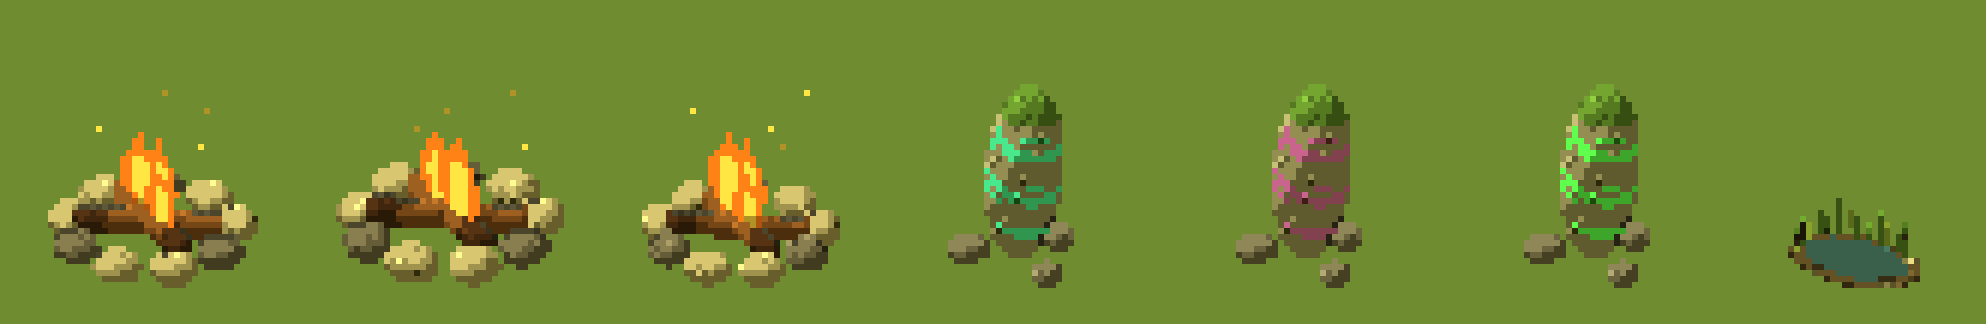
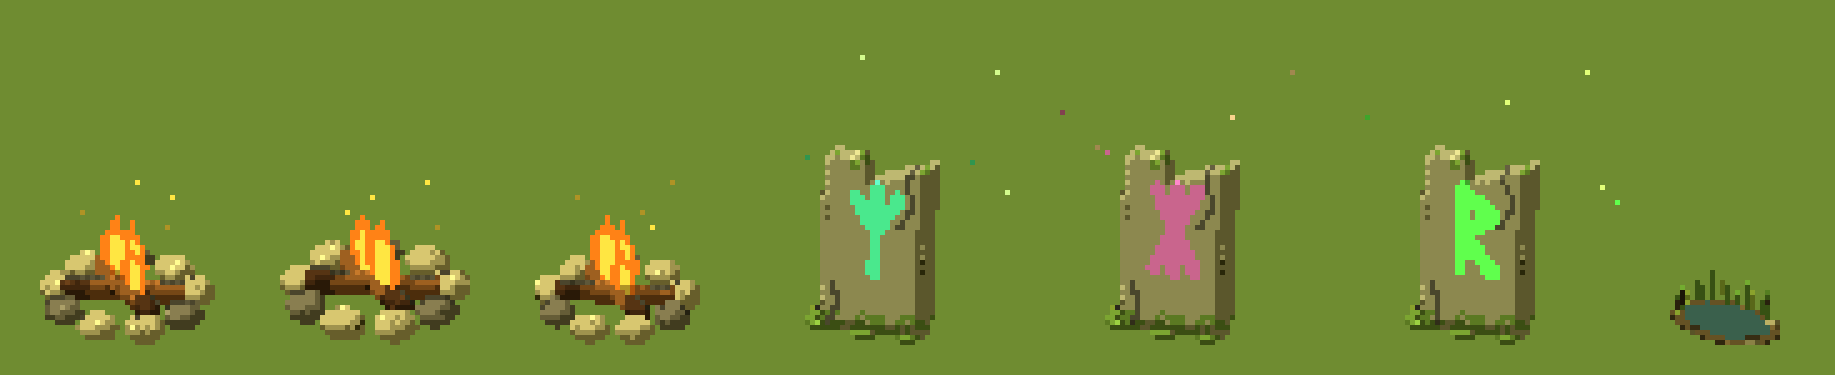
Art pass: magic stones as rune slabs; one rune language
The magic stones become grey standing slabs with cracks, a worn top,
moss and grass at the foot, one bold glowing rune and motes. The rune
glyphs move to core.js and the soundsystem carves the same glyphs, big,
on the sides of its stack.

Claude-Session: https://claude.ai/code/session_01FVGKHvaavDn5xGsWtRTBaz

diff --git a/tools/art-lab/dist/witch-art-lab.html b/tools/art-lab/dist/witch-art-lab.html
@@ -222,6 +222,22 @@ const M = {
   WOOD: 41,    // varnished wooden trim
 };
 // These glow: drawn at full colour by the lighting pass, whatever the light.
+// The rune glyphs: one carved-rune language for the magic stones and the soundsystem. Simple,
+// angular, bold strokes. u, v in [0, 1] over the glyph's square (v down); k picks the glyph;
+// w is the stroke's half-width.
+const RUNE_GLYPHS = 4;
+function runeGlyph(u, v, k, w = .12) {
+  const line = (x0, y0, x1, y1) => { // distance to a segment
+    const dx = x1 - x0, dy = y1 - y0, t = Math.max(0, Math.min(1, ((u - x0) * dx + (v - y0) * dy) / (dx * dx + dy * dy)));
+    return Math.hypot(u - x0 - dx * t, v - y0 - dy * t) < w;
+  };
+  switch (((k % RUNE_GLYPHS) + RUNE_GLYPHS) % RUNE_GLYPHS) {
+    case 0: return line(.5, .08, .5, .92) || line(.5, .1, .18, .4) || line(.5, .1, .82, .4);  // an arrow up
+    case 1: return line(.5, .08, .5, .92) || line(.5, .5, .18, .18) || line(.5, .5, .82, .18); // a fork
+    case 2: return line(.2, .1, .8, .9) || line(.8, .1, .2, .9) || line(.5, .08, .5, .92);    // a starred cross
+    default: return line(.3, .08, .3, .92) || line(.3, .12, .75, .35) || line(.75, .35, .3, .55) || line(.3, .55, .78, .92); // a hooked stave
+  }
+}
 const EMISSIVE = new Set([M.GLINT, M.FLOWER, M.MAGIC, M.MAGIC2, M.RUNE, M.GLOW]);
 
 // ================= geometry: smooth outlines =================
@@ -1368,16 +1384,44 @@ function campfire(frame) {
   return sp;
 }
 const STONE_GLOW = { cyan: [[70, 230, 255], [200, 250, 255]], violet: [[190, 100, 255], [235, 210, 255]], green: [[90, 255, 140], [215, 255, 220]] };
+// A rune stone: a grey standing slab, taller than wide, its flatter face turned to the viewer,
+// cracked and weathered, with moss and grass at its foot and one bold glowing rune carved into
+// its face (the same glyphs as the soundsystem's runes), and a few motes drifting round it.
 function magicStone(variant) {
-  const m = new Model({ blend: .05 });
-  // a standing stone, leaning a little, with carved runes on its face; small stones at its foot
-  m.ell([0, .42, 0], [.42, .17, .13], M.ACCENT, { dir: [.12, 1, 0], up: [1, 0, 0], group: 1, paint: p => {
-    const face = p[0] > .03 || p[2] > .07, band = Math.floor((p[1] - .1) * 9);
-    if (face && p[1] > .15 && p[1] < .75 && (band % 2 === 0) && Math.abs(Math.sin(p[1] * 31 + p[2] * 17 + p[0] * 13)) > .55) return M.MAGIC;
-    return p[1] > .7 ? M.LEAF : undefined; } });
-  for (const [x, z, r] of [[-.2, .12, .08], [.18, .1, .06], [.05, -.18, .07]]) m.ell([x, r * .6, z], [r, r * .7, r], M.BODY2, { group: 2 });
-  const col = { [M.ACCENT]: [140, 140, 150], [M.BODY2]: [100, 98, 110], [M.LEAF]: [80, 120, 60], [M.MAGIC]: STONE_GLOW[variant][0], [M.MAGIC2]: STONE_GLOW[variant][1] };
-  const sp = render(m, { height: 36 }).sp;
+  const m = new Model({ blend: .04 }), k = Object.keys(STONE_GLOW).indexOf(variant), fz = .08, A = .4; // A: turned so its face is nearly square to the viewer
+  // its own axes: across, up (leaning back a little, so the face catches the moon), out of the face
+  const ax = [Math.cos(A), 0, -Math.sin(A)], az = v3.norm([Math.sin(A), .22, Math.cos(A)]), ay = v3.norm(v3.cross(az, ax)), C = [0, .46, 0];
+  // two jagged cracks: one down from the worn top, one up from the foot
+  const cracks = [[[.2 - k * .05, .92], [.14, .8], [.19, .7], [.12, .58]], [[-.22 + k * .03, .05], [-.17, .16], [-.21, .25]]];
+  const crack = (x, y) => cracks.some(c => c.some((a, i) => { const b = c[i + 1]; if (!b) return false;
+    const dx = b[0] - a[0], dy = b[1] - a[1], t = Math.max(0, Math.min(1, ((x - a[0]) * dx + (y - a[1]) * dy) / (dx * dx + dy * dy)));
+    return Math.hypot(x - a[0] - dx * t, y - a[1] - dy * t) < .014; }));
+  const face = q => {
+    const d = v3.sub(q, C), p = [v3.dot(d, ax), v3.dot(d, ay) + .46, v3.dot(d, az)]; // in the slab's own axes
+    if (p[2] > fz - .02) { // the rune, carved into the face
+      const u = (p[0] + .17) / .34, v = (.8 - p[1]) / .5;
+      if (u >= 0 && u <= 1 && v >= 0 && v <= 1 && runeGlyph(u, v, k + 1, .1)) return M.RUNE;
+    }
+    if (crack(p[0], p[1])) return M.STONED; // cracks
+    if (p[1] > .86 && hash2(Math.floor(p[0] * 30), Math.floor(p[2] * 30), 3) < .3) return M.MOSS;   // lichen on the weathered top
+    if (p[1] < .12 && hash2(Math.floor(p[0] * 35), Math.floor(p[1] * 35) + Math.floor(p[2] * 35) * 7, 5) < .55) return M.MOSS;
+    return undefined;
+  };
+  m.box(C, [.28, .46, fz], M.STONE, { group: 1, axes: [ax, ay, az], round: .06, paint: face });
+  // the weathered top: worn down to one side
+  m.box(v3.add(v3.add(C, v3.mul(ay, .53)), v3.mul(ax, .2)), [.3, .12, .2], M.STONE, { group: 1, dir: v3.add(ax, v3.mul(ay, .35)), up: ay, cut: true, paint: face });
+  // moss and grass at its foot
+  for (const [x, z, r] of [[-.24, .14, .08], [.2, .02, .07], [.0, .12, .07]]) m.ell([x, .015, z], [r, r * .4, r], M.MOSS, { group: 2 });
+  for (let i = 0; i < 9; i++) { const x = -.3 + i * .07, z = .12 + (i % 3) * .025 - i * .02, h = .07 + (i * 37 % 5) / 60; m.seg([x, 0, z], [x + (i % 3 - 1) * .02, h, z + .01], .012, .004, i % 3 ? M.LEAF : M.LEAF2, { group: 10 + i }); }
+  const col = { [M.STONE]: [132, 134, 142], [M.STONED]: [70, 70, 80], [M.MOSS]: [86, 120, 62], [M.LEAF]: [80, 125, 60], [M.LEAF2]: [130, 160, 80], [M.RUNE]: STONE_GLOW[variant][0], [M.MAGIC2]: STONE_GLOW[variant][1], [M.LINE]: [40, 40, 50] };
+  const sp = render(m, { height: 44 }).sp;
+  // a few motes drifting round it
+  let n = 0;
+  for (let i = 0; i < 600 && n < 5; i++) {
+    const x = Math.floor(hash2(i, k, 9) * sp.w), y = Math.floor(hash2(i, k, 10) * sp.h * .8);
+    if (sp.get(x, y) || sp.get(x + 1, y) || sp.get(x - 1, y) || sp.get(x, y + 1) || sp.get(x, y - 1)) continue;
+    sp.px(x, y, n % 2 ? M.RUNE : M.MAGIC2); n++;
+  }
   return { sp, colours: col };
 }
 function pond() {
@@ -1888,15 +1932,6 @@ function soundsystemColours(variant = 0) {
   return { [M.STONE]: [78, 80, 94], [M.STONED]: [36, 36, 48], [M.MOSS]: [72, 108, 58], [M.CRYSTAL]: crystal, [M.RUNE]: glow, [M.GLOW]: glow, [M.MAGIC2]: core, [M.WOOD]: [150, 96, 52], [M.LINE]: [24, 24, 34] };
 }
 
-// a carved rune, u and v in [0, 1] over its square
-const rune = (u, v, k) => {
-  const stroke = (d, w = .13) => Math.abs(d) < w;
-  if (stroke(u - .5) && v > .08 && v < .92) return true;               // the stem
-  if (k % 3 === 0) return stroke(v - .3 - Math.abs(u - .5) * .9) && v < .75; // arrow
-  if (k % 3 === 1) return (stroke(v - u * .9 - .05) || stroke(v - (1 - u) * .9 - .05)) && v < .8; // cross
-  return stroke(Math.hypot(u - .5, v - .3) - .22, .1);                 // ring
-};
-
 // The stack as a model. frame 0..2 pumps the cones; state "playing" | "damaged"; for damaged,
 // frame 0 or 1 is the flicker. Returns the model and how tall the intact stack is (model units).
 function stackModel(variant, frame, state) {
@@ -1918,11 +1953,11 @@ function stackModel(variant, frame, state) {
       return d < .2 + pump * .15 ? M.MAGIC2 : d < .5 ? M.GLOW : d < .78 ? M.CRYSTAL : M.GLOW;
     } });
   };
-  // a carved rune near a block's top corner
-  const runePaint = (bx, by, bh, bw, frontZ, k, base) => p => {
-    if (p[2] > frontZ - .012) {
-      const s = .09, u = (p[0] - (bx - bw + .03)) / s, v = 1 - (p[1] - (by + bh - .03 - s)) / s;
-      if (u >= 0 && u <= 1 && v >= 0 && v <= 1 && rune(u, v, k)) return dmg && hash2(k, frame, 5) < .5 ? M.STONED : M.RUNE;
+  // one big carved rune on the side of a block (the side we see), in the magic stones' glyphs
+  const runePaint = (bx, by, bh, bw, bd, fz, k, base) => p => {
+    if (p[0] > bx + bw - .022) {
+      const S = Math.min(bh, bd) * 1.5, u = (fz - bd - p[2]) / S + .5, v = (by - p[1]) / S + .5;
+      if (u >= 0 && u <= 1 && v >= 0 && v <= 1 && runeGlyph(u, v, k, .12)) return dmg && hash2(k, frame, 5) < .5 ? M.STONED : M.RUNE;
     }
     return base(p);
   };
@@ -1941,7 +1976,8 @@ function stackModel(variant, frame, state) {
       if (dmg && kind === "horn" && i === n - 1) { fallen.push([bx, bw, bh, bd]); continue; } // knocked off the stack
       const tilt = dmg && kind === "tweet" ? [1, .12 * (i % 2 ? 1 : -1), 0] : undefined, by2 = dmg && kind === "tweet" ? by - .04 : by;
       const base = stone(by2 + bh, fz - bd + bd, g, dmg);
-      m.box([bx, by2, fz - bd], [bw - .005, bh, bd], M.STONE, { group: g, round: .035, rough: .007, dir: tilt, paint: runePaint(bx, by2, bh, bw, fz, runeK++, base) });
+      const carved = i === n - 1 - (dmg && kind === "horn" ? 1 : 0) && kind !== "tweet"; // the end block we see the side of
+      m.box([bx, by2, fz - bd], [bw - .005, bh, bd], M.STONE, { group: g, round: .035, rough: .004, dir: tilt, paint: carved ? runePaint(bx, by2, bh, bw - .005, bd, fz, runeK++, base) : base });
       if (kind === "bass") disc(bx, by + .02, fz, Math.min(bw, bh) * .72, g, cone++);
       if (kind === "mid") { // a wide, shallow horn: a flared hollow with a fin down the middle
         m.ell([bx, by, fz], [bw * .8, bh * .7, bd * .9], M.STONED, { group: g, cut: true, paint: p => p[2] < fz - bd * .45 ? (dark(cone) ? M.STONED : M.GLOW) : undefined });

diff --git a/art/areas.js b/art/areas.js
@@ -7,8 +7,8 @@
 // areaAssets(id, style, { K, makeCanvas }) bakes everything one area type needs:
 //   { def, floor, walls, small, big, setPiece }  — each prop { sp: baked, kind, text },
 //   floor a seamless-ish tile (64 x 48 art pixels) to repeat over the ground.
-import { M, Sprite, rng, uni, pick, hash2, vnoise, hsv2rgb, tufts, lerp2, add, bake, defaultCanvas } from "./core.js";
-import { Model, render, masks } from "./model3d.js";
+import { M, Sprite, rng, uni, pick, hash2, vnoise, hsv2rgb, tufts, lerp2, add, bake, defaultCanvas, runeGlyph } from "./core.js";
+import { Model, render, masks, v3 } from "./model3d.js";
 import { broadTree, firTree, willowTree, birchTree, flatTree, treeColours, bush } from "./trees.js";
 
 // [kind, params] shorthands for the prop library below
@@ -298,16 +298,44 @@ function campfire(frame) {
   return sp;
 }
 const STONE_GLOW = { cyan: [[70, 230, 255], [200, 250, 255]], violet: [[190, 100, 255], [235, 210, 255]], green: [[90, 255, 140], [215, 255, 220]] };
+// A rune stone: a grey standing slab, taller than wide, its flatter face turned to the viewer,
+// cracked and weathered, with moss and grass at its foot and one bold glowing rune carved into
+// its face (the same glyphs as the soundsystem's runes), and a few motes drifting round it.
 function magicStone(variant) {
-  const m = new Model({ blend: .05 });
-  // a standing stone, leaning a little, with carved runes on its face; small stones at its foot
-  m.ell([0, .42, 0], [.42, .17, .13], M.ACCENT, { dir: [.12, 1, 0], up: [1, 0, 0], group: 1, paint: p => {
-    const face = p[0] > .03 || p[2] > .07, band = Math.floor((p[1] - .1) * 9);
-    if (face && p[1] > .15 && p[1] < .75 && (band % 2 === 0) && Math.abs(Math.sin(p[1] * 31 + p[2] * 17 + p[0] * 13)) > .55) return M.MAGIC;
-    return p[1] > .7 ? M.LEAF : undefined; } });
-  for (const [x, z, r] of [[-.2, .12, .08], [.18, .1, .06], [.05, -.18, .07]]) m.ell([x, r * .6, z], [r, r * .7, r], M.BODY2, { group: 2 });
-  const col = { [M.ACCENT]: [140, 140, 150], [M.BODY2]: [100, 98, 110], [M.LEAF]: [80, 120, 60], [M.MAGIC]: STONE_GLOW[variant][0], [M.MAGIC2]: STONE_GLOW[variant][1] };
-  const sp = render(m, { height: 36 }).sp;
+  const m = new Model({ blend: .04 }), k = Object.keys(STONE_GLOW).indexOf(variant), fz = .08, A = .4; // A: turned so its face is nearly square to the viewer
+  // its own axes: across, up (leaning back a little, so the face catches the moon), out of the face
+  const ax = [Math.cos(A), 0, -Math.sin(A)], az = v3.norm([Math.sin(A), .22, Math.cos(A)]), ay = v3.norm(v3.cross(az, ax)), C = [0, .46, 0];
+  // two jagged cracks: one down from the worn top, one up from the foot
+  const cracks = [[[.2 - k * .05, .92], [.14, .8], [.19, .7], [.12, .58]], [[-.22 + k * .03, .05], [-.17, .16], [-.21, .25]]];
+  const crack = (x, y) => cracks.some(c => c.some((a, i) => { const b = c[i + 1]; if (!b) return false;
+    const dx = b[0] - a[0], dy = b[1] - a[1], t = Math.max(0, Math.min(1, ((x - a[0]) * dx + (y - a[1]) * dy) / (dx * dx + dy * dy)));
+    return Math.hypot(x - a[0] - dx * t, y - a[1] - dy * t) < .014; }));
+  const face = q => {
+    const d = v3.sub(q, C), p = [v3.dot(d, ax), v3.dot(d, ay) + .46, v3.dot(d, az)]; // in the slab's own axes
+    if (p[2] > fz - .02) { // the rune, carved into the face
+      const u = (p[0] + .17) / .34, v = (.8 - p[1]) / .5;
+      if (u >= 0 && u <= 1 && v >= 0 && v <= 1 && runeGlyph(u, v, k + 1, .1)) return M.RUNE;
+    }
+    if (crack(p[0], p[1])) return M.STONED; // cracks
+    if (p[1] > .86 && hash2(Math.floor(p[0] * 30), Math.floor(p[2] * 30), 3) < .3) return M.MOSS;   // lichen on the weathered top
+    if (p[1] < .12 && hash2(Math.floor(p[0] * 35), Math.floor(p[1] * 35) + Math.floor(p[2] * 35) * 7, 5) < .55) return M.MOSS;
+    return undefined;
+  };
+  m.box(C, [.28, .46, fz], M.STONE, { group: 1, axes: [ax, ay, az], round: .06, paint: face });
+  // the weathered top: worn down to one side
+  m.box(v3.add(v3.add(C, v3.mul(ay, .53)), v3.mul(ax, .2)), [.3, .12, .2], M.STONE, { group: 1, dir: v3.add(ax, v3.mul(ay, .35)), up: ay, cut: true, paint: face });
+  // moss and grass at its foot
+  for (const [x, z, r] of [[-.24, .14, .08], [.2, .02, .07], [.0, .12, .07]]) m.ell([x, .015, z], [r, r * .4, r], M.MOSS, { group: 2 });
+  for (let i = 0; i < 9; i++) { const x = -.3 + i * .07, z = .12 + (i % 3) * .025 - i * .02, h = .07 + (i * 37 % 5) / 60; m.seg([x, 0, z], [x + (i % 3 - 1) * .02, h, z + .01], .012, .004, i % 3 ? M.LEAF : M.LEAF2, { group: 10 + i }); }
+  const col = { [M.STONE]: [132, 134, 142], [M.STONED]: [70, 70, 80], [M.MOSS]: [86, 120, 62], [M.LEAF]: [80, 125, 60], [M.LEAF2]: [130, 160, 80], [M.RUNE]: STONE_GLOW[variant][0], [M.MAGIC2]: STONE_GLOW[variant][1], [M.LINE]: [40, 40, 50] };
+  const sp = render(m, { height: 44 }).sp;
+  // a few motes drifting round it
+  let n = 0;
+  for (let i = 0; i < 600 && n < 5; i++) {
+    const x = Math.floor(hash2(i, k, 9) * sp.w), y = Math.floor(hash2(i, k, 10) * sp.h * .8);
+    if (sp.get(x, y) || sp.get(x + 1, y) || sp.get(x - 1, y) || sp.get(x, y + 1) || sp.get(x, y - 1)) continue;
+    sp.px(x, y, n % 2 ? M.RUNE : M.MAGIC2); n++;
+  }
   return { sp, colours: col };
 }
 function pond() {

diff --git a/art/soundsystem.js b/art/soundsystem.js
@@ -11,7 +11,7 @@
 // towards the viewer. When it plays the cones pump (frames 0..2: the discs swell and brighten).
 // States: "playing" (3 frames), "damaged" (cracked, a stone fallen, the glow flickering: 2
 // frames) and "destroyed" (a rubble pile with a dying glow: 1 frame).
-import { M, hash2 } from "./core.js";
+import { M, hash2, runeGlyph } from "./core.js";
 import { Model, render } from "./model3d.js";
 import { witchHeight } from "./witch.js";
 
@@ -28,15 +28,6 @@ export function soundsystemColours(variant = 0) {
   const [glow, core, crystal] = CRYSTAL[SOUNDSYSTEMS[variant % SOUNDSYSTEMS.length].crystal];
   return { [M.STONE]: [78, 80, 94], [M.STONED]: [36, 36, 48], [M.MOSS]: [72, 108, 58], [M.CRYSTAL]: crystal, [M.RUNE]: glow, [M.GLOW]: glow, [M.MAGIC2]: core, [M.WOOD]: [150, 96, 52], [M.LINE]: [24, 24, 34] };
 }
-
-// a carved rune, u and v in [0, 1] over its square
-const rune = (u, v, k) => {
-  const stroke = (d, w = .13) => Math.abs(d) < w;
-  if (stroke(u - .5) && v > .08 && v < .92) return true;               // the stem
-  if (k % 3 === 0) return stroke(v - .3 - Math.abs(u - .5) * .9) && v < .75; // arrow
-  if (k % 3 === 1) return (stroke(v - u * .9 - .05) || stroke(v - (1 - u) * .9 - .05)) && v < .8; // cross
-  return stroke(Math.hypot(u - .5, v - .3) - .22, .1);                 // ring
-};
 
 // The stack as a model. frame 0..2 pumps the cones; state "playing" | "damaged"; for damaged,
 // frame 0 or 1 is the flicker. Returns the model and how tall the intact stack is (model units).
@@ -59,11 +50,11 @@ function stackModel(variant, frame, state) {
       return d < .2 + pump * .15 ? M.MAGIC2 : d < .5 ? M.GLOW : d < .78 ? M.CRYSTAL : M.GLOW;
     } });
   };
-  // a carved rune near a block's top corner
-  const runePaint = (bx, by, bh, bw, frontZ, k, base) => p => {
-    if (p[2] > frontZ - .012) {
-      const s = .09, u = (p[0] - (bx - bw + .03)) / s, v = 1 - (p[1] - (by + bh - .03 - s)) / s;
-      if (u >= 0 && u <= 1 && v >= 0 && v <= 1 && rune(u, v, k)) return dmg && hash2(k, frame, 5) < .5 ? M.STONED : M.RUNE;
+  // one big carved rune on the side of a block (the side we see), in the magic stones' glyphs
+  const runePaint = (bx, by, bh, bw, bd, fz, k, base) => p => {
+    if (p[0] > bx + bw - .022) {
+      const S = Math.min(bh, bd) * 1.5, u = (fz - bd - p[2]) / S + .5, v = (by - p[1]) / S + .5;
+      if (u >= 0 && u <= 1 && v >= 0 && v <= 1 && runeGlyph(u, v, k, .12)) return dmg && hash2(k, frame, 5) < .5 ? M.STONED : M.RUNE;
     }
     return base(p);
   };
@@ -82,7 +73,8 @@ function stackModel(variant, frame, state) {
       if (dmg && kind === "horn" && i === n - 1) { fallen.push([bx, bw, bh, bd]); continue; } // knocked off the stack
       const tilt = dmg && kind === "tweet" ? [1, .12 * (i % 2 ? 1 : -1), 0] : undefined, by2 = dmg && kind === "tweet" ? by - .04 : by;
       const base = stone(by2 + bh, fz - bd + bd, g, dmg);
-      m.box([bx, by2, fz - bd], [bw - .005, bh, bd], M.STONE, { group: g, round: .035, rough: .007, dir: tilt, paint: runePaint(bx, by2, bh, bw, fz, runeK++, base) });
+      const carved = i === n - 1 - (dmg && kind === "horn" ? 1 : 0) && kind !== "tweet"; // the end block we see the side of
+      m.box([bx, by2, fz - bd], [bw - .005, bh, bd], M.STONE, { group: g, round: .035, rough: .004, dir: tilt, paint: carved ? runePaint(bx, by2, bh, bw - .005, bd, fz, runeK++, base) : base });
       if (kind === "bass") disc(bx, by + .02, fz, Math.min(bw, bh) * .72, g, cone++);
       if (kind === "mid") { // a wide, shallow horn: a flared hollow with a fin down the middle
         m.ell([bx, by, fz], [bw * .8, bh * .7, bd * .9], M.STONED, { group: g, cut: true, paint: p => p[2] < fz - bd * .45 ? (dark(cone) ? M.STONED : M.GLOW) : undefined });

diff --git a/art/core.js b/art/core.js
@@ -53,6 +53,22 @@ export const M = {
   WOOD: 41,    // varnished wooden trim
 };
 // These glow: drawn at full colour by the lighting pass, whatever the light.
+// The rune glyphs: one carved-rune language for the magic stones and the soundsystem. Simple,
+// angular, bold strokes. u, v in [0, 1] over the glyph's square (v down); k picks the glyph;
+// w is the stroke's half-width.
+export const RUNE_GLYPHS = 4;
+export function runeGlyph(u, v, k, w = .12) {
+  const line = (x0, y0, x1, y1) => { // distance to a segment
+    const dx = x1 - x0, dy = y1 - y0, t = Math.max(0, Math.min(1, ((u - x0) * dx + (v - y0) * dy) / (dx * dx + dy * dy)));
+    return Math.hypot(u - x0 - dx * t, v - y0 - dy * t) < w;
+  };
+  switch (((k % RUNE_GLYPHS) + RUNE_GLYPHS) % RUNE_GLYPHS) {
+    case 0: return line(.5, .08, .5, .92) || line(.5, .1, .18, .4) || line(.5, .1, .82, .4);  // an arrow up
+    case 1: return line(.5, .08, .5, .92) || line(.5, .5, .18, .18) || line(.5, .5, .82, .18); // a fork
+    case 2: return line(.2, .1, .8, .9) || line(.8, .1, .2, .9) || line(.5, .08, .5, .92);    // a starred cross
+    default: return line(.3, .08, .3, .92) || line(.3, .12, .75, .35) || line(.75, .35, .3, .55) || line(.3, .55, .78, .92); // a hooked stave
+  }
+}
 export const EMISSIVE = new Set([M.GLINT, M.FLOWER, M.MAGIC, M.MAGIC2, M.RUNE, M.GLOW]);
 
 // ================= geometry: smooth outlines =================

diff --git a/CLAUDE.md b/CLAUDE.md
@@ -14,7 +14,7 @@ There is no CI yet. The art generator (`art/`, entry `art/generator.js`) and the
 
 - `node art/check.mjs` — builds the lab, opens the source page and the built page in headless Chromium (no script errors, a bestiary card for every species, the scene drawn), and draws every creature, tree, bush, area type and soundsystem (each non-empty, creatures and soundsystems standing on their bottom row; legends taller than young, young taller than babies; a soundsystem about three times the witch).
 
-Related commands: `node tools/art-lab/build.mjs` writes the self-contained lab page to `tools/art-lab/dist/witch-art-lab.html` (the one to publish); `node art/export.mjs [style.json] [out dir]` exports every asset as albedo and normal-map PNGs with `manifest.json` (default `art/out/`, not committed); `node art/preview.mjs animals|trees|areas|soundsystems <list> <png> [scale]` renders lit preview sheets. They need Playwright's Chromium (in cloud sessions, under `/opt/pw-browsers`).
+Related commands: `node tools/art-lab/build.mjs` writes the self-contained lab page to `tools/art-lab/dist/witch-art-lab.html` (the one to publish); `node art/export.mjs [style.json] [out dir]` exports every asset as albedo and normal-map PNGs with `manifest.json` (default `art/out/`, not committed); `node art/preview.mjs animals|trees|areas|lights|soundsystems <list> <png> [scale]` renders lit preview sheets. They need Playwright's Chromium (in cloud sessions, under `/opt/pw-browsers`).
 
 ## Glossary
 
